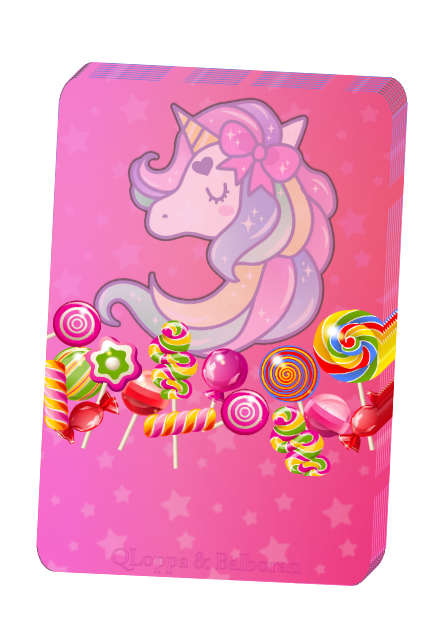
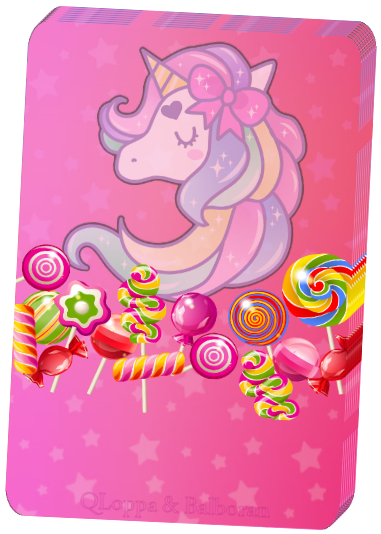
Frame anpassungen

diff --git a/View.py b/View.py
@@ -17,8 +17,8 @@ rev = None
 auswahlKarte = None
 ablagestapelFrame = None
 check_FS = None
-
-
+scale = 0.40
+font = "Chiller" # Fonts: Chiller, Castellar
 
 # screenmode = None
 
@@ -101,11 +101,12 @@ def createMenu():
 
 # """-----------------------------------IMAGE---------------------------------------#
 def createImage():
-    scale = 0.60
+    global scale
+    global font
     w = int(439 * scale)
     h = int(638 * scale)
 
-    backgroundImage = Image.open("resources/Kartengrafiken/Spielkarte_MUSTER_0_unicorn.png")  # ohne unicorn
+    backgroundImage = Image.open("resources/Kartengrafiken/Spielkarte_MUSTER_0.png")  # ohne unicorn
     backgroundImage = backgroundImage.resize((w, h), Image.ANTIALIAS)
     global background
     background = ImageTk.PhotoImage(backgroundImage)
@@ -130,31 +131,23 @@ def createImage():
     global nachziehStapel
     nachziehStapel = ImageTk.PhotoImage(nachziehStapelImg)
 
-    sideFrameleft = Frame(root)
+    sideFrameleft = Frame(root, bg="blue")
     sideFrameleft.pack(side='left', fill=Y)
-
-    sideFrameright = Frame(root)
-    sideFrameright.pack(side="right", fill=Y)
 
     player1NF = Frame(sideFrameleft)
     player1NF.pack(side="top")
 
-    player2NF = Frame(sideFrameright)
-    player2NF.pack(side="top")
+    player1NL = Label(player1NF, text="Spieler1", bg="red")
+    player1NL.pack()
 
-    player1NL = Label(player1NF, text="Spieler1")
-    player1NL.pack(side="top")
-
-    player2NL = Label(player2NF, text="Spieler2")
-    player2NL.pack(side="top")
 
     nachziehStapelFrame = Frame(sideFrameleft)
     nachziehStapelFrame.pack(side='bottom')
 
-
-    font = "Castellar"
-    fontsizecorner = 23
-    # Alter Font Chiller
+    if font == "Chiller":
+        fontsizecorner = 55
+    else:
+        fontsizecorner = 23
     actualfontcorner = f"{font} {str(int(fontsizecorner * scale))}"
 
     canvasLabel = Label(nachziehStapelFrame, text="Verbleibende Karten:", font=actualfontcorner)
@@ -165,9 +158,28 @@ def createImage():
 
     canvas.create_image(0, 0, image=nachziehStapel, anchor=NW)
 
+    nachziehStapelFrame.update()
+    print(nachziehStapelFrame.winfo_geometry())
+    leftframewidth = nachziehStapelFrame.winfo_width()
+    leftframeheight = nachziehStapelFrame.winfo_height()
+
+    print(leftframewidth)
+    print(leftframeheight)
+
+
+    sideFrameright = Frame(root, bg="blue", width=leftframewidth)
+    sideFrameright.pack_propagate(0)
+    sideFrameright.pack(side="right", fill=Y)
+
+    player2NF = Frame(sideFrameright)
+    player2NF.pack(side="top")
+
+    player2NL = Label(player2NF, text="Spieler2", bg="red")
+    player2NL.pack(side="top")
+
 
     ablagestapelVorlageFrame = Frame(root)
-    ablagestapelVorlageFrame.pack(side=TOP)
+    ablagestapelVorlageFrame.pack(side="top")
 
     global ablagestapelFrame
     ablagestapelFrame = Frame(root)
@@ -198,16 +210,23 @@ def createImage():
     handkartenFrame.pack(side='bottom')
 
 
-
 def erzeugeAblageStapelVorlage(frame, scale, h, w, img, bigNumber, smallNumber):
+
+    global font
+    fontsizesmall = 50
+    fontsizebig = 110
+    # Alter Font Castellar
+    smallNumberFont = f"{font} {str(int(fontsizesmall * scale))}"
+    bigNumberFont = f"{font} {str(int(fontsizebig * scale))}"
+
     canvas = tk.Canvas(frame, width=w, height=h)
     canvas.pack(side='top', fill=None, expand=False)
 
     canvas.create_image(0, 0, image=img, anchor=NW)
 
-    canvas.create_text(w / 2, 60 * scale, text=smallNumber, font=f"Chiller 50", fill="white",
+    canvas.create_text(w / 2, 60 * scale, text=smallNumber, font=smallNumberFont, fill="white",
                        anchor=CENTER)  # mitt oben
-    canvas.create_text(w / 2, h - 100 * scale, text=bigNumber, font="Chiller 110", fill="white",
+    canvas.create_text(w / 2, h - 100 * scale, text=bigNumber, font=bigNumberFont, fill="white",
                        anchor=CENTER)  # mitte unten
     return canvas
 
@@ -229,14 +248,14 @@ def erzeugeAblageKarte(frame, scale, h, w, index):
 
 
 def aktuelisiereAblageKarte(frame, index, value):
-    scale = 0.60
+    global scale
+    global font
     w = int(439 * scale)
     h = int(638 * scale)
 
     if value >= 1:
         fontsizecorner = 42
         fontsizemiddle = 137
-        font = "Castellar"
         # Alter Font Chiller
         actualfontcorner = f"{font} {str(int(fontsizecorner * scale))}"
         actualfontmiddle = f"{font} {str(int(fontsizemiddle * scale))}"
@@ -305,11 +324,11 @@ def handKarteAnzeigen(spielKarte):
     cardFrame.pack(side=LEFT)
 
     # Scaling für die Zahlen und die Gesamte Karte
-    scale = 0.6
+    global scale
+    global font
     fontsizecorner = 42
     fontsizemiddle = 137
-    font = "Castellar"
-    # Alter Font Chiller
+    # Alter Font Chiller/Castellar
     actualfontcorner = f"{font} {str(int(fontsizecorner * scale))}"
     actualfontmiddle = f"{font} {str(int(fontsizemiddle * scale))}"
     w = 439 * scale
@@ -357,3 +376,5 @@ def createButtons():
 
     quit = Button(bottomFrame, text="Beenden", command=root.destroy)
     quit.pack()
+
+
